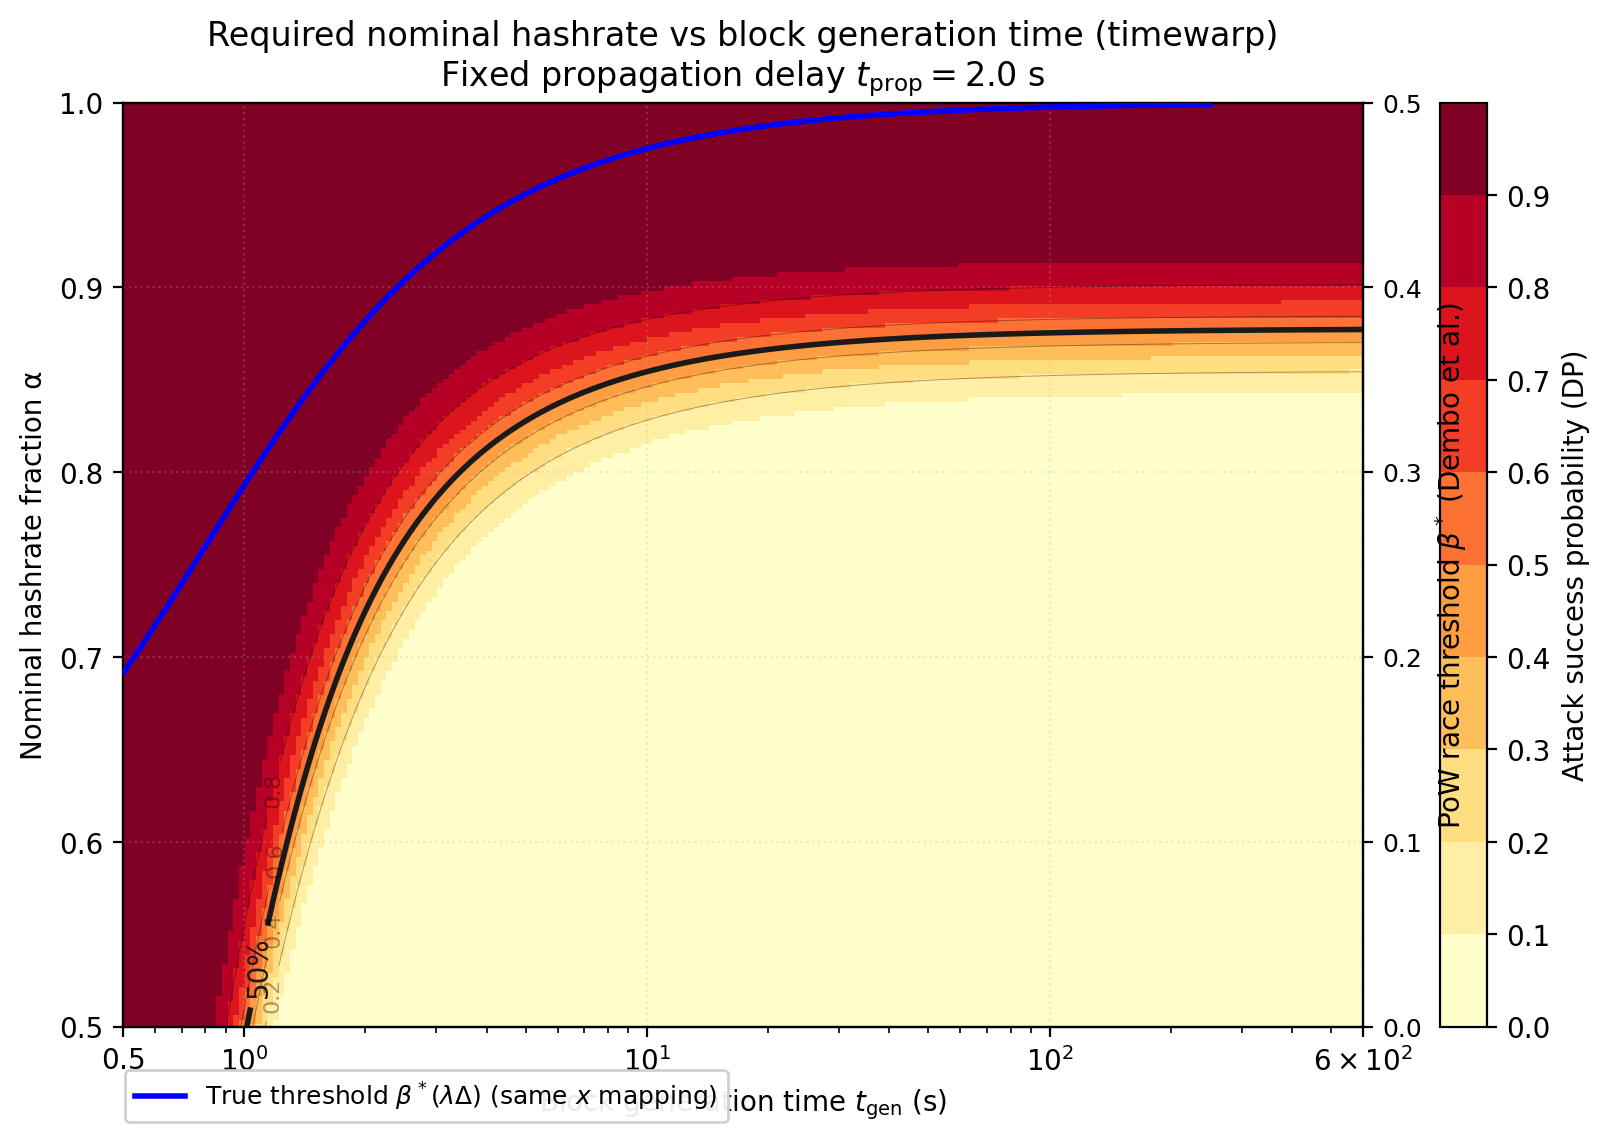
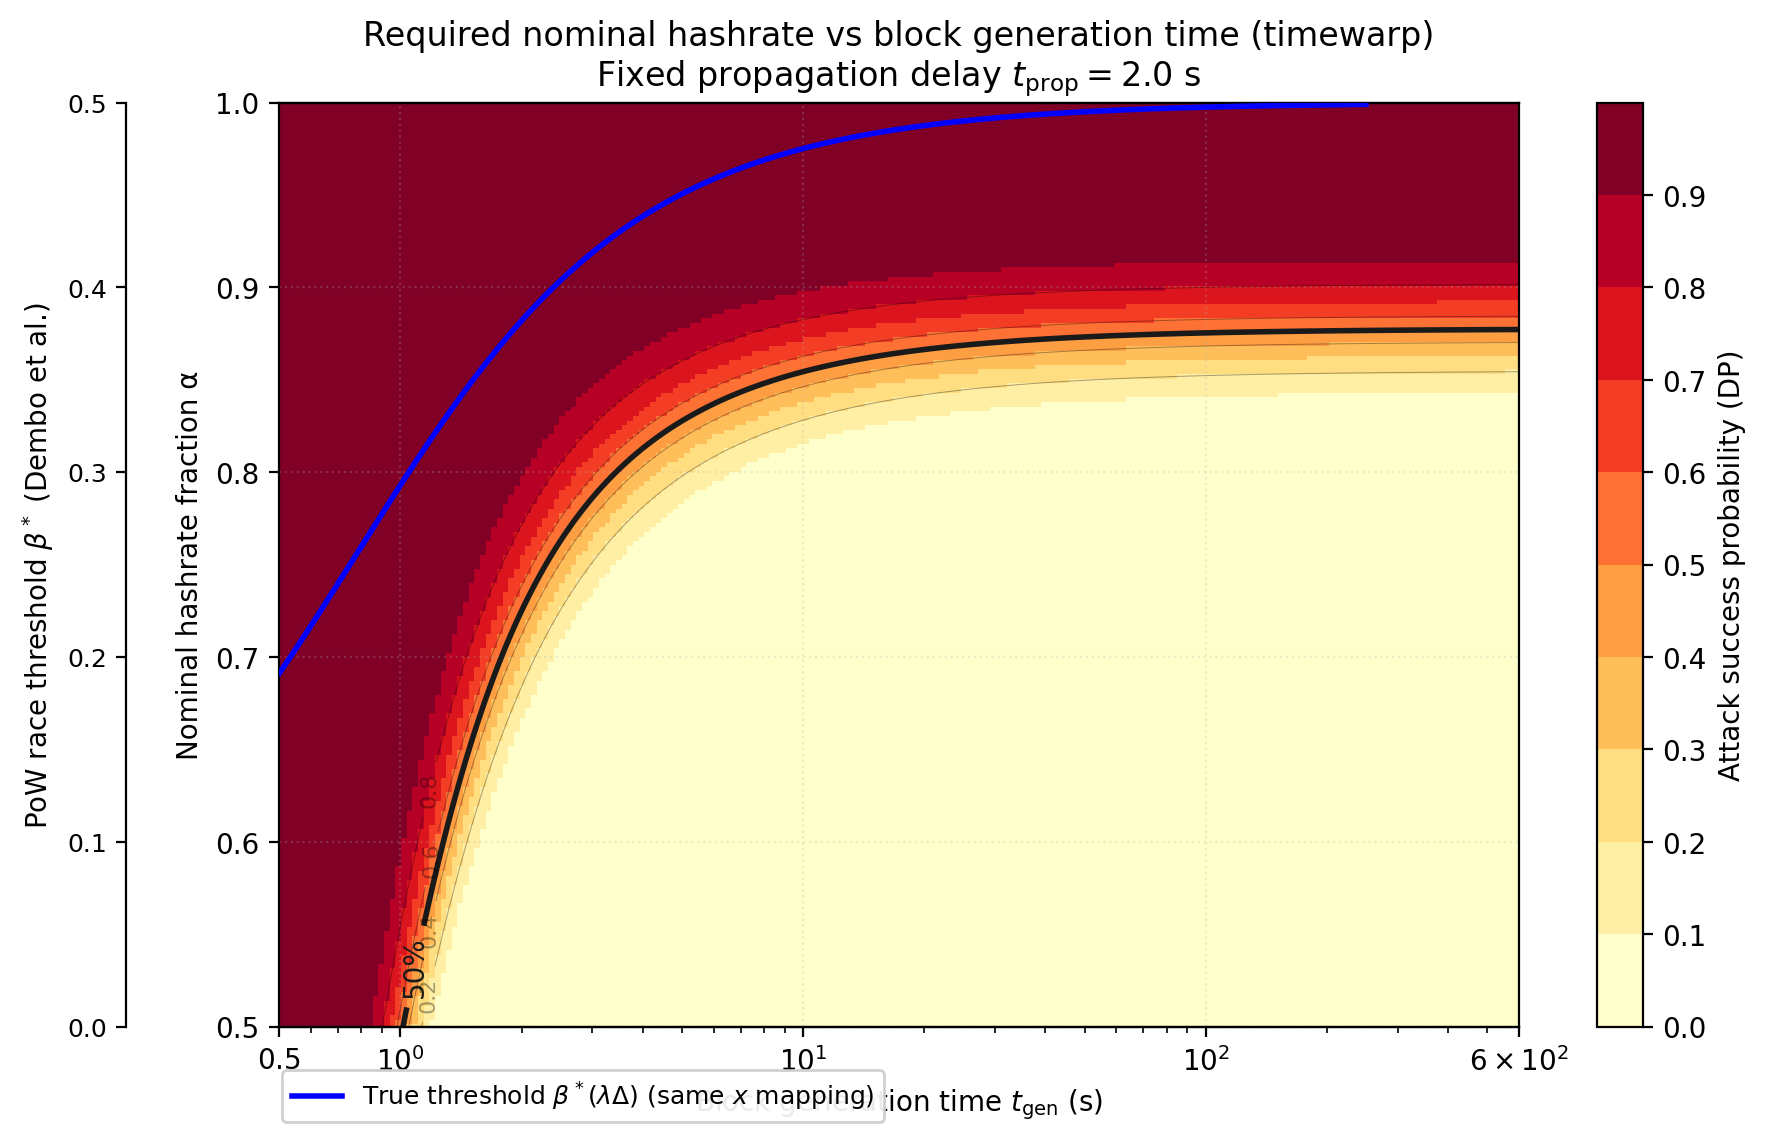
wip

diff --git a/experiments/timewarp_theory_analysis/scripts/plot_required_hashrate_heatmap_block_generation_time.py b/experiments/timewarp_theory_analysis/scripts/plot_required_hashrate_heatmap_block_generation_time.py
@@ -121,7 +121,7 @@ def plot_attack_success_heatmap_by_block_generation_time(*, show_pow_threshold: 
 
     if show_pow_threshold:
         # Dembo et al. true threshold: 1/(λΔ) = β(1−β)/(1−2β); λΔ = t_prop / t_gen ⇒ t_gen = t_prop / (λΔ).
-        # β は主軸の α(0.5–1) と縦方向が重ならないため、右軸 0–0.5 を同じ描画高さに割り当ててヒートマップの上に重ねる。
+        # β は主軸の α(0.5–1) と同じ縦方向に重ねるため 0–0.5 を割り当てる。縦軸ラベルは右ではなく左側（外側オフセット）に統一。
         betas_thr = np.linspace(0.001, 0.499, 1000)
         lambda_delta = (1.0 - 2.0 * betas_thr) / (betas_thr * (1.0 - betas_thr))
         inv_lambda_delta = 1.0 / lambda_delta
@@ -132,6 +132,10 @@ def plot_attack_success_heatmap_by_block_generation_time(*, show_pow_threshold: 
         ax2.set_ylim(0.0, 0.5)
         ax2.set_ylabel(r"PoW race threshold $\beta^*$ (Dembo et al.)", fontsize=10)
         ax2.tick_params(axis="y", labelsize=9)
+        ax2.yaxis.set_ticks_position("left")
+        ax2.yaxis.set_label_position("left")
+        ax2.spines["right"].set_visible(False)
+        ax2.spines["left"].set_position(("outward", 55))
         ax2.grid(False)
         (line_thr,) = ax2.plot(
             t_gen_thr[thr_mask],
@@ -187,7 +191,7 @@ if __name__ == "__main__":
     parser.add_argument(
         "--show-pow-threshold",
         action="store_true",
-        help="Overlay Dembo et al. PoW race β* curve (twin y-axis). Default: off.",
+        help="Overlay Dembo et al. PoW race β* curve (second y-scale on the left). Default: off.",
     )
     args = parser.parse_args()
     plot_attack_success_heatmap_by_block_generation_time(show_pow_threshold=args.show_pow_threshold)
